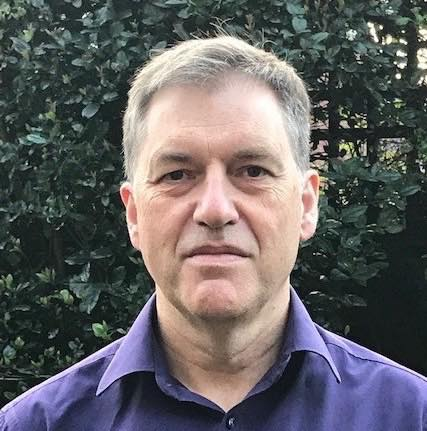
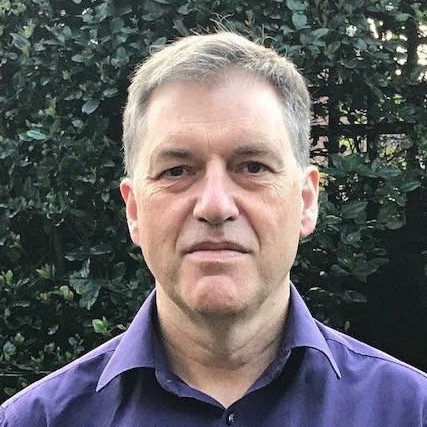
up

diff --git a/docs/Computer Science Workshop/csw24.md b/docs/Computer Science Workshop/csw24.md
@@ -106,7 +106,7 @@ Lunch and coffee breaks will be offered to all participants.
 TBD
 
 #### Piotr's bio 
-<img src="/assets/images/people/CSW24/faliszewski.jpg" style="display: block; max-height: 150px;">
+<img src="/assets/images/people/CSW24/faliszewski-sq.jpg" style="display: block; max-height: 150px;">
 Piotr Faliszewski is a professor of computer science at the AGH University in Krakow, Poland. 
 His research is focused on computational social choice, a multidisciplinary research area that spans theoretical computer science, multiagent research, economics, operations research and other areas. 
 Main themes of Piotr's research include algorithms for computational analysis of candidate performance in elections, multiwinner and particpatory budgeting elections, and analysis of the space of elections. 
@@ -128,13 +128,23 @@ Giovanni is part of the EPICKITCHENS and EGO4D teams.
 He founded and currently directs the International Computer Vision Summer School (ICVSS). 
 He was awarded the PAMI Mark Everingham Prize 2017 and the Intel's 2022 Outstanding Researcher Award.
 
-### _Title TBD_
+### Trustworthy Autonomous Systems?
 #### Abstract
-TBD
+Autonomy represents a step-change in systems development and requires new approaches to systems architectures, systems analysis, and practical regulation. In this presentation, I will describe our approach utilising the modularity and heterogeneity of (software) components to provide hybrid agent architectures for autonomous systems.
+
+This then allows for a range of verification techniques to be utilised in the different components, from formal verification applied to the core autonomous decision-making through to varieties of testing used in other parts of the system. An important component is the use of runtime verification (or runtime monitoring) to check for anomalies and violations.
+
+This approach provides a basis for more reliable, transparent, trustworthy and verifiable autonomous (often robotic) systems. Finally, moving beyond trustworthiness to wider issues of responsibility, I will briefly discuss both sustainability and governance issues.
 
 #### Michael's bio
 <img src="/assets/images/people/avatar.png" style="display: block; max-height: 150px;">
-TBD
+Michael Fisher is a Professor of Computer Science, and Royal Academy of Engineering Chair in Emerging Technologies, at the University of Manchester.
+
+His research concerns autonomous systems, particularly verification, software engineering, self-awareness, and trustworthiness, with applications across robotics and autonomous vehicles. Increasingly, his work encompasses not just safety but broader ethical issues such as sustainability and responsibility across these (AI, Autonomous Systems, IoT, Robotics, etc) technologies.
+
+Fisher chairs the British Standards Institution Committee on Sustainable Robotics, co-chairs the IEEE Technical Committee on the Verification of Autonomous Systems, and is a member of both the IEEE P7009 Standards committee on "Fail-Safe Design of Autonomous Systems" and the Strategy Group of the UK's Responsible AI programme.
+
+He is currently on secondment (for 2 days per week) to the UK Government's Department for Science, Innovation and Technology [https://www.gov.uk/dsit] advising on issues around AI and Robotics.
 
 
 ### _Title TBD_
@@ -164,7 +174,7 @@ In 2022, she was elected President of the Italian Chapter of the European Associ
 TBD
 
 #### Marco's bio
-<img src="/assets/images/people/CSW24/polignano.jpeg" style="display: block; max-height: 150px;">
+<img src="/assets/images/people/CSW24/polignano-sq.jpeg" style="display: block; max-height: 150px;">
 Marco Polignano is an Assistant Professor in the computer science department at the University of Bari Aldo Moro, Italy, and a key member of the SWAP research group. 
 He constantly contributes to cutting-edge AI, NLP, and Recommender Systems advancements. 
 In 2018, he obtained a Ph.D. with a doctoral thesis titled "An affect-aware computational model for supporting decision-making through recommender systems". 
